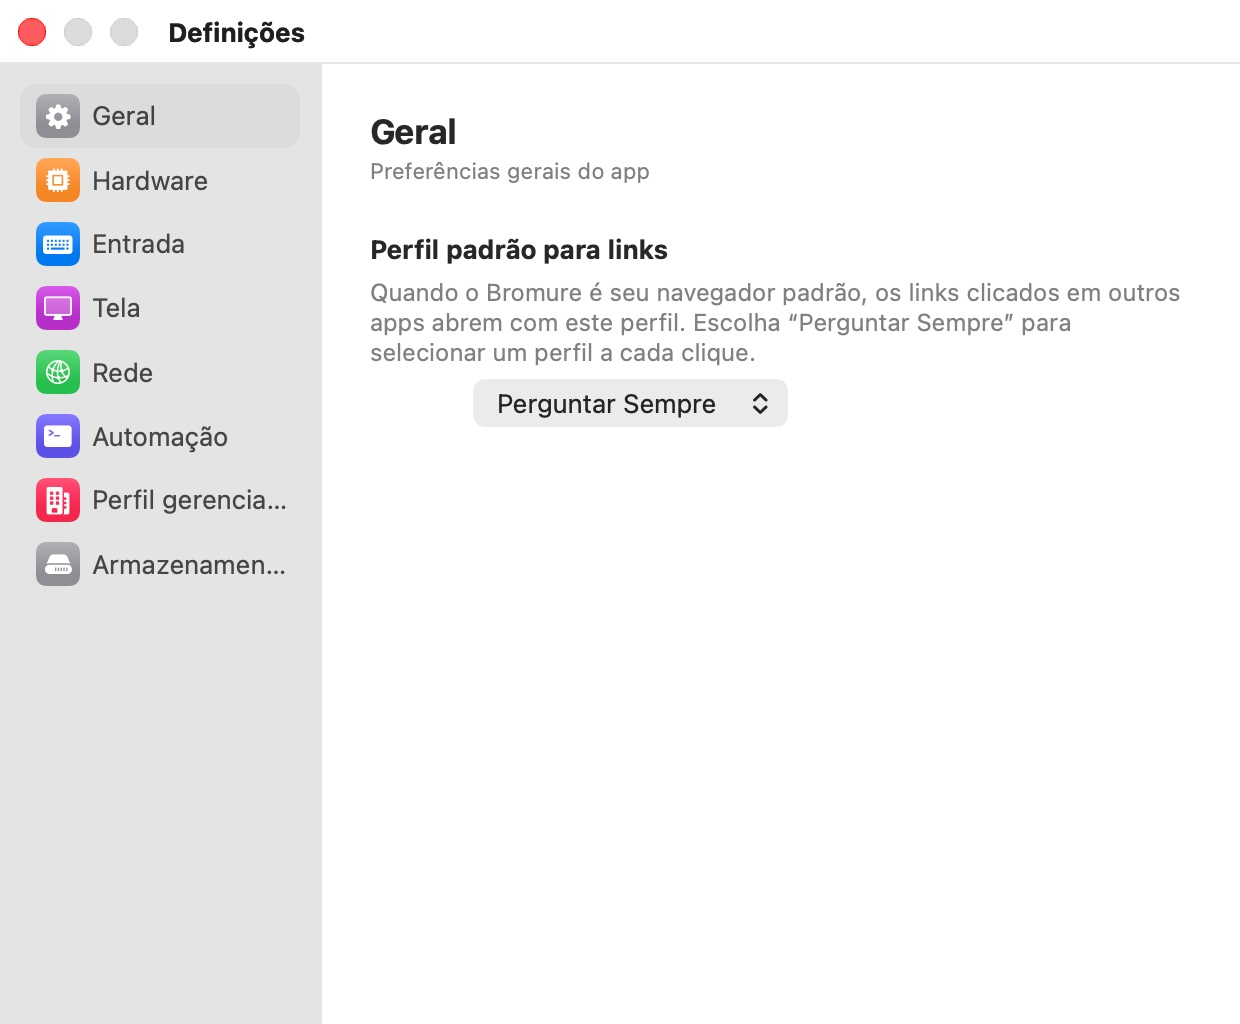
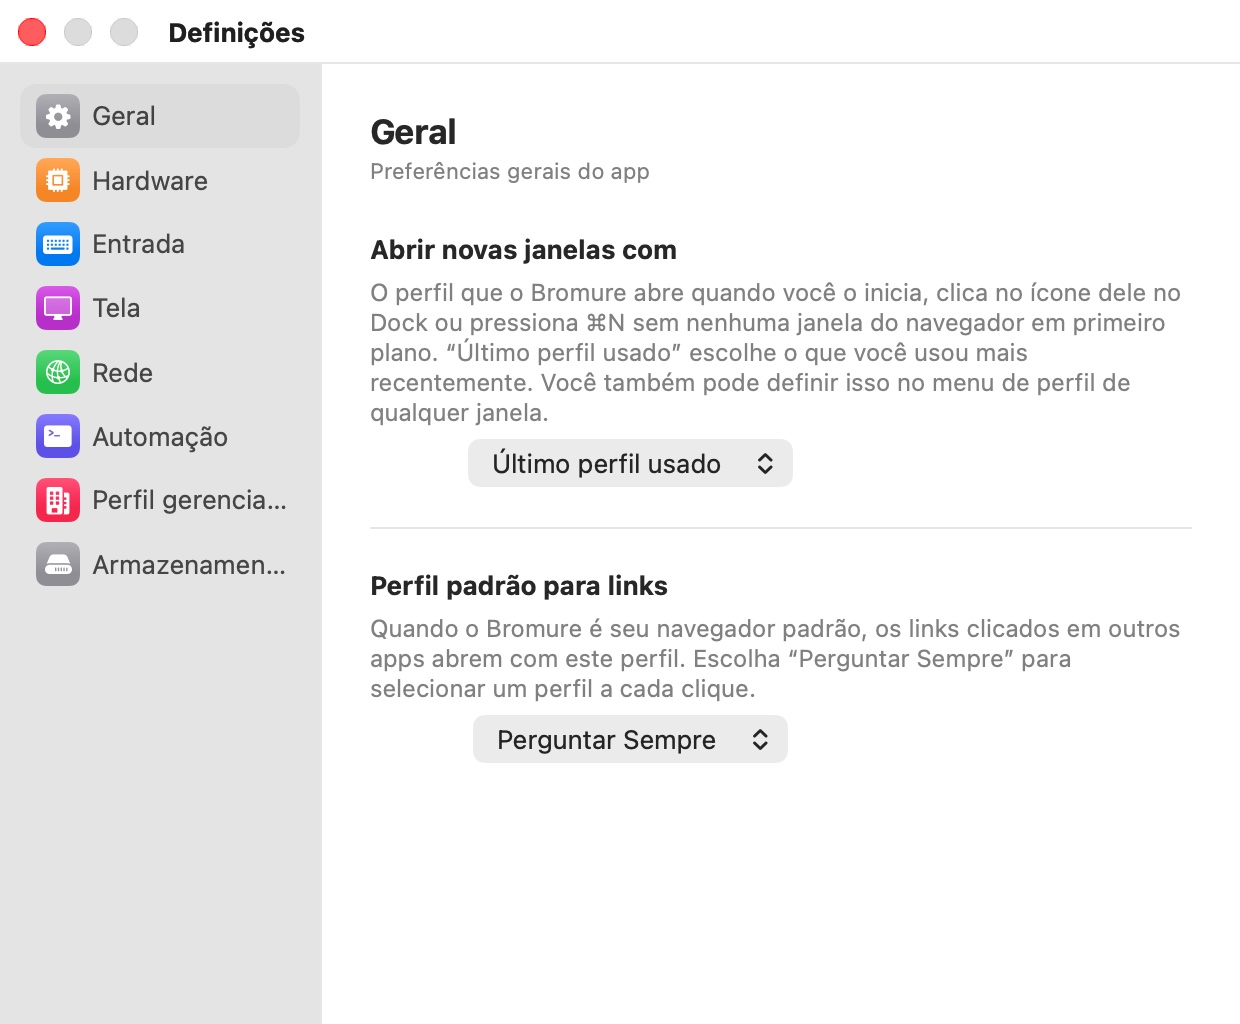
Bromure web: choose the profile new windows open with
Which profile opened on launch, on a Dock click or on ⌘N with no window
in front was always the last one used, with no way to change it. Now
Settings › General › Open New Windows With picks one (default: Last
Used Profile), and the profile chip in every window offers "Open New
Windows with “Work”" — both bind launch.defaultProfileID. Deleting the
chosen profile falls back to last used. Also an AppleScript app setting
(profile name or UUID), strings in all 8 languages, and the manual
(Settings › General page and screenshots, profiles, browser window,
glossary, appendix, automation).

diff --git a/Sources/Browser/ScriptCommands.swift b/Sources/Browser/ScriptCommands.swift
@@ -341,6 +341,7 @@ final class GetAppSettingCommand: NSScriptCommand {
         case "automation.port":   return String(d.integer(forKey: key))
         case "automation.bindAddress": return d.string(forKey: key) ?? "127.0.0.1"
         case "phishingAnalysis.serverURL": return d.string(forKey: key) ?? PhishingAnalysisBridge.defaultServerBaseURL.absoluteString
+        case AppState.launchProfileKey: return d.string(forKey: key) ?? ""
         default:
             scriptErrorNumber = errOSAScriptError
             scriptErrorString = "Unknown app setting: \(key)"
@@ -376,6 +377,18 @@ final class SetAppSettingCommand: NSScriptCommand {
             case "automation.port":     d.set(Int(value) ?? 9222, forKey: key)
             case "automation.bindAddress": d.set(value, forKey: key)
             case "phishingAnalysis.serverURL": d.set(value, forKey: key)
+            case AppState.launchProfileKey:
+                // A profile name or UUID; empty = the last-used profile.
+                if value.isEmpty {
+                    d.set("", forKey: key)
+                } else if let profile = (NSApp.delegate as? GUIAppDelegate)?.state.profileManager.allProfiles
+                            .first(where: { $0.id.uuidString == value || $0.name == value }) {
+                    d.set(profile.id.uuidString, forKey: key)
+                } else {
+                    scriptErrorNumber = errOSAScriptError
+                    scriptErrorString = "Profile not found: \(value)"
+                    return nil
+                }
             default:
                 scriptErrorNumber = errOSAScriptError
                 scriptErrorString = "Unknown app setting: \(key)"

diff --git a/Sources/Browser/SettingsView.swift b/Sources/Browser/SettingsView.swift
@@ -61,6 +61,7 @@ struct SettingsView: View {
     @AppStorage("automation.port") private var automationPort = 9222
     @AppStorage("automation.bindAddress") private var automationBindAddress = "127.0.0.1"
     @AppStorage("links.defaultProfileID") private var defaultProfileID = ""
+    @AppStorage(AppState.launchProfileKey) private var launchProfileID = ""
 
     var state: AppState?
 
@@ -406,6 +407,22 @@ struct SettingsView: View {
     private var generalView: some View {
         VStack(alignment: .leading, spacing: 20) {
             sectionHeader("General", subtitle: "App-wide preferences")
+
+            VStack(alignment: .leading, spacing: 6) {
+                Text("Open New Windows With").font(.headline)
+                Text("The profile Bromure opens when you launch it, click its Dock icon, or press \u{2318}N with no browser window in front. \u{201C}Last Used Profile\u{201D} picks the one you used most recently. You can also set this from the profile menu in any window.")
+                    .settingDescription()
+                Picker("", selection: $launchProfileID) {
+                    Text("Last Used Profile").tag("")
+                    ForEach(state?.profileManager.allProfiles ?? []) { profile in
+                        Text(profile.name).tag(profile.id.uuidString)
+                    }
+                }
+                .labelsHidden()
+                .frame(width: 260)
+            }
+
+            Divider()
 
             VStack(alignment: .leading, spacing: 6) {
                 Text("Default Profile for Links").font(.headline)

diff --git a/Sources/Browser/SafariSandbox.swift b/Sources/Browser/SafariSandbox.swift
@@ -321,10 +321,13 @@ final class GUIAppDelegate: NSObject, NSApplicationDelegate, NSWindowDelegate, N
 
     // MARK: - Launch flow
 
-    /// The profile a fresh window opens in when no window is key: the
-    /// most recently used one (``ProfileManager/allProfiles`` sorts by
-    /// last use), falling back to the ephemeral default.
+    /// The profile a fresh window opens in when no window is key: the one
+    /// chosen under "Open New Windows With" if it still exists, otherwise
+    /// the most recently used one (``ProfileManager/allProfiles`` sorts by
+    /// last use).
     @MainActor private func startupProfile() -> Profile? {
+        if let id = state.launchProfileID,
+           let p = state.profileManager.profile(withID: id) { return p }
         if let id = state.selectedProfileID,
            let p = state.profileManager.profile(withID: id) { return p }
         return state.profileManager.allProfiles.first
@@ -2857,6 +2860,7 @@ final class BrowserSession {
                 // All actions resolve through the app delegate.
                 if let profile {
                     tabModel.profileName = profile.name
+                    tabModel.profileID = profile.id
                     tabModel.profileColor = profile.color
                     let delegate = { NSApp.delegate as? GUIAppDelegate }
                     tabModel.profileIsManaged = delegate()?.state.profileManager.isManaged(profile.id) ?? false

diff --git a/Sources/Browser/ProfileChip.swift b/Sources/Browser/ProfileChip.swift
@@ -60,6 +60,17 @@ enum ProfileSwatch {
 /// so the old launcher window is no longer needed for any of that.
 struct ProfileChip: View {
     @Bindable var model: NativeTabBarModel
+    /// Shared with Settings › General, so every window's chip agrees.
+    @AppStorage(AppState.launchProfileKey) private var launchProfileID = ""
+
+    /// "Open New Windows with “Work”": checked when this window's profile
+    /// is the one new windows open with; unchecking returns to the
+    /// last-used profile.
+    private var opensNewWindows: Binding<Bool> {
+        Binding(
+            get: { model.profileID.map { $0.uuidString == launchProfileID } ?? false },
+            set: { on in launchProfileID = on ? (model.profileID?.uuidString ?? "") : "" })
+    }
 
     var body: some View {
         // Reading the version ties this view to the delegate's bumps so
@@ -96,6 +107,12 @@ struct ProfileChip: View {
             }
 
             Divider()
+
+            if model.profileID != nil {
+                Toggle(String(format: NSLocalizedString("Open New Windows with \u{201C}%@\u{201D}", comment: "Profile menu: make the current profile the one new windows open with"), name),
+                       isOn: opensNewWindows)
+                Divider()
+            }
 
             Button(NSLocalizedString("New Profile\u{2026}", comment: "")) {
                 model.onNewProfile?()

diff --git a/Sources/Browser/AppState.swift b/Sources/Browser/AppState.swift
@@ -69,6 +69,16 @@ final class AppState: @unchecked Sendable {
     let profileManager: ProfileManager
     var selectedProfileID: UUID?
 
+    /// Preference: the profile a new window opens with when no browser
+    /// window is in front (launch, Dock click, ⌘N). Empty = the profile
+    /// used most recently. Set in Settings › General or the profile chip.
+    static let launchProfileKey = "launch.defaultProfileID"
+
+    var launchProfileID: UUID? {
+        get { UserDefaults.standard.string(forKey: Self.launchProfileKey).flatMap(UUID.init(uuidString:)) }
+        set { UserDefaults.standard.set(newValue?.uuidString ?? "", forKey: Self.launchProfileKey) }
+    }
+
     /// Called by the app delegate when sessions need to be closed for image rebuild.
     var onCloseAllSessions: (() async -> Void)?
     var onPoolReady: (() -> Void)?

diff --git a/Sources/Browser/ManualShots.swift b/Sources/Browser/ManualShots.swift
@@ -252,7 +252,7 @@ enum ManualShots {
             "vm.energyMode": EnergyMode.default.rawValue,
             "phishingAnalysis.serverURL": PhishingAnalysisBridge.defaultServerBaseURL.absoluteString,
             "automation.enabled": false, "automation.port": 9222, "automation.bindAddress": "127.0.0.1",
-            "links.defaultProfileID": "",
+            "links.defaultProfileID": "", AppState.launchProfileKey: "",
         ]
         mask.merge(defaults) { current, _ in current }
         UserDefaults.standard.setVolatileDomain(mask, forName: UserDefaults.argumentDomain)

diff --git a/Sources/Browser/ProfileEditorController.swift b/Sources/Browser/ProfileEditorController.swift
@@ -222,6 +222,9 @@ final class ProfileEditorController {
         if state.selectedProfileID == id {
             state.selectedProfileID = state.profileManager.allProfiles.first?.id
         }
+        if state.launchProfileID == id {
+            state.launchProfileID = nil  // back to the last-used profile
+        }
         state.profileVersion += 1
     }
 }

diff --git a/Sources/Browser/NativeTabBarView.swift b/Sources/Browser/NativeTabBarView.swift
@@ -113,6 +113,7 @@ final class NativeTabBarModel {
     /// The profile this window runs. nil for profile-less (automation)
     /// sessions, which show no chip.
     var profileName: String?
+    var profileID: UUID?
     var profileColor: ProfileColor?
     var profileIsManaged = false
 
